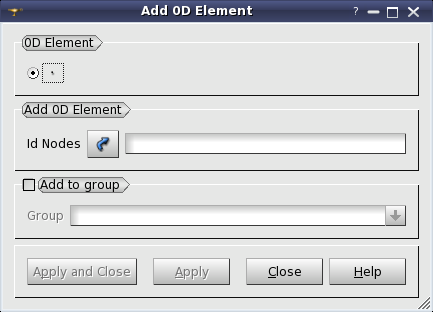
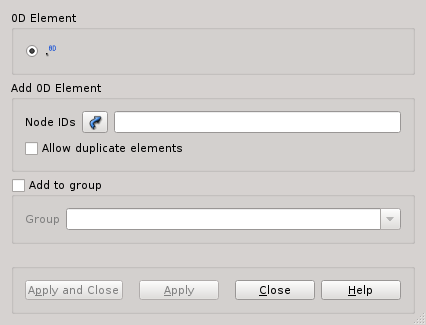
IMP 23201: Harmonisation of "0D Element" and "0D Elements on Element Nodes"

diff --git a/src/SMESHGUI/SMESH_msg_en.ts b/src/SMESHGUI/SMESH_msg_en.ts
@@ -1242,6 +1242,10 @@ Please enter correct values and try again</translation>
         <translation>Add 0D Element</translation>
     </message>
     <message>
+        <source>SMESH_DUPLICATE_0D</source>
+        <translation>Allow duplicate elements</translation>
+    </message>
+    <message>
         <source>SMESH_ADD_BALL</source>
         <translation>Add Ball Element</translation>
     </message>
@@ -4387,6 +4391,14 @@ It can&apos;t be deleted </translation>
     <message>
         <source>FIELDS_TO_EXPORT</source>
         <translation>Export Fields</translation>
+    </message>
+</context>
+<context>
+    <name>SMESHGUI_AddMeshElementDlg</name>
+    <message>
+        <source>NB_ADDED</source>
+        <translation>%1 elements have been added since 0D
+elements already present on the selected nodes.</translation>
     </message>
 </context>
 <context>

diff --git a/src/SMESH_SWIG/smeshBuilder.py b/src/SMESH_SWIG/smeshBuilder.py
@@ -2264,6 +2264,8 @@ class Mesh:
     #          idSrc.UnRegister()
     #  @ingroup l1_auxiliary
     def GetIDSource(self, ids, elemType = SMESH.ALL):
+        if isinstance( ids, int ):
+            ids = [ids]
         return self.editor.MakeIDSource(ids, elemType)
 
 
@@ -2828,10 +2830,11 @@ class Mesh:
 
     ## Creates a 0D element on a node with given number.
     #  @param IDOfNode the ID of node for creation of the element.
+    #  @param DuplicateElements to add one more 0D element to a node or not
     #  @return the Id of the new 0D element
     #  @ingroup l2_modif_add
-    def Add0DElement(self, IDOfNode):
-        return self.editor.Add0DElement(IDOfNode)
+    def Add0DElement( self, IDOfNode, DuplicateElements=True ):
+        return self.editor.Add0DElement( IDOfNode, DuplicateElements )
 
     ## Create 0D elements on all nodes of the given elements except those 
     #  nodes on which a 0D element already exists.
@@ -2840,18 +2843,19 @@ class Mesh:
     #         of nodes IDs created by calling mesh.GetIDSource( nodes, SMESH.NODE )
     #  @param theGroupName optional name of a group to add 0D elements created
     #         and/or found on nodes of \a theObject.
+    #  @param DuplicateElements to add one more 0D element to a node or not
     #  @return an object (a new group or a temporary SMESH_IDSource) holding
     #          IDs of new and/or found 0D elements. IDs of 0D elements 
     #          can be retrieved from the returned object by calling GetIDs()
     #  @ingroup l2_modif_add
-    def Add0DElementsToAllNodes(self, theObject, theGroupName=""):
+    def Add0DElementsToAllNodes(self, theObject, theGroupName="", DuplicateElements=False):
         unRegister = genObjUnRegister()
         if isinstance( theObject, Mesh ):
             theObject = theObject.GetMesh()
-        if isinstance( theObject, list ):
+        elif isinstance( theObject, list ):
             theObject = self.GetIDSource( theObject, SMESH.ALL )
             unRegister.set( theObject )
-        return self.editor.Create0DElementsOnAllNodes( theObject, theGroupName )
+        return self.editor.Create0DElementsOnAllNodes( theObject, theGroupName, DuplicateElements )
 
     ## Creates a ball element on a node with given ID.
     #  @param IDOfNode the ID of node for creation of the element.

diff --git a/src/SMESHGUI/SMESHGUI_Add0DElemsOnAllNodesDlg.h b/src/SMESHGUI/SMESHGUI_Add0DElemsOnAllNodesDlg.h
@@ -31,13 +31,14 @@
 #include "SMESHGUI_Dialog.h"
 #include "SMESHGUI_IdValidator.h"
 
-class SMESHGUI_FilterDlg;
-class SMESHGUI_Add0DElemsOnAllNodesOp;
 class QButtonGroup;
-class QPushButton;
+class QCheckBox;
+class QComboBox;
 class QGroupBox;
 class QLabel;
-class QComboBox;
+class QPushButton;
+class SMESHGUI_Add0DElemsOnAllNodesOp;
+class SMESHGUI_FilterDlg;
 
 //---------------------------------------------------------------------------------
 /*!
@@ -72,6 +73,7 @@ signals:
   QGroupBox*    myGroupBox;
   QLabel*       myGroupLabel;
   QComboBox*    myGroupListCmBox;
+  QCheckBox*    myDuplicateElemsChkBox;
 
   SMESHGUI_IdValidator myIDValidator;
 };
@@ -106,7 +108,6 @@ class SMESHGUI_EXPORT SMESHGUI_Add0DElemsOnAllNodesOp : public SMESHGUI_Selectio
   SMESHGUI_Add0DElemsOnAllNodesDlg* myDlg;
   SMESHGUI_FilterDlg*               myFilterDlg;
   Handle(SALOME_InteractiveObject)  myIO;
-  //SUIT_SelectionFilter*             myObjectFilter;
 };
 
 #endif

diff --git a/src/SMESHGUI/SMESHGUI_AddMeshElementDlg.h b/src/SMESHGUI/SMESHGUI_AddMeshElementDlg.h
@@ -111,7 +111,7 @@ private:
   QLabel*                     TextLabelC1A1;
   QPushButton*                SelectButtonC1A1;
   QLineEdit*                  LineEditC1A1;
-  QCheckBox*                  Reverse;
+  QCheckBox*                  ReverseOrDulicate;
   SMESHGUI_SpinBox*           DiameterSpinBox;
   
   QString                     myHelpFileName;
